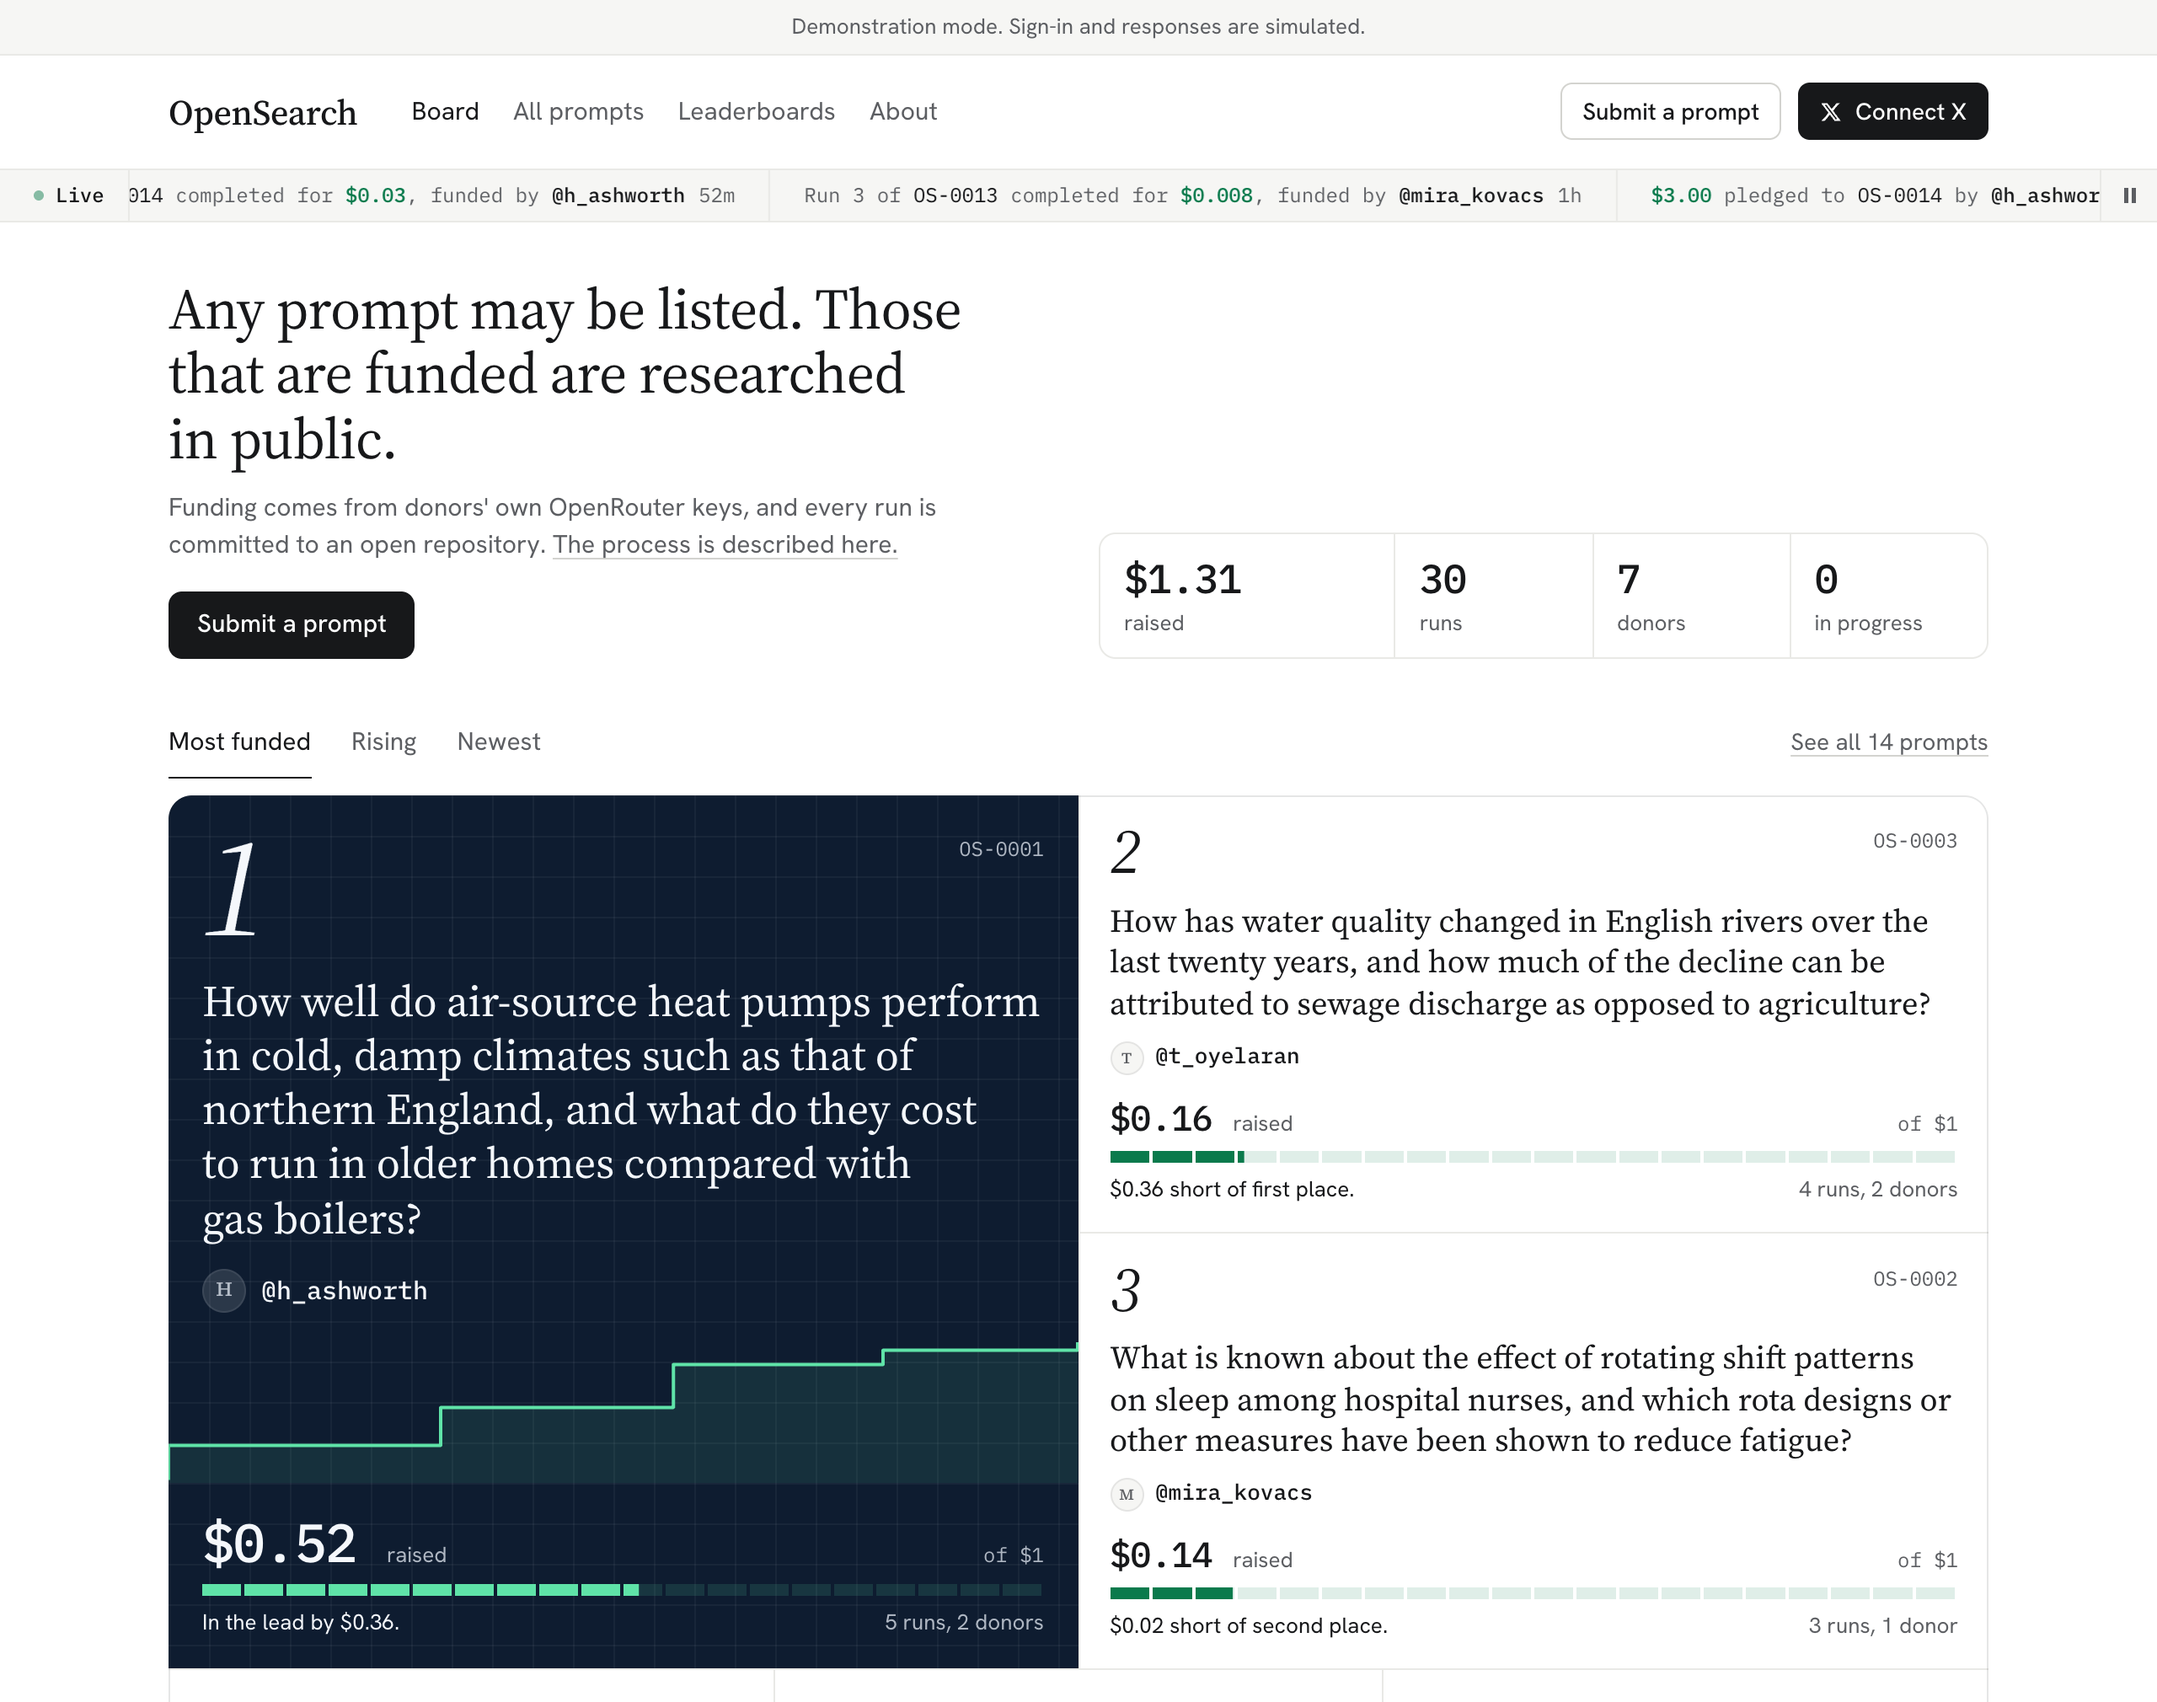
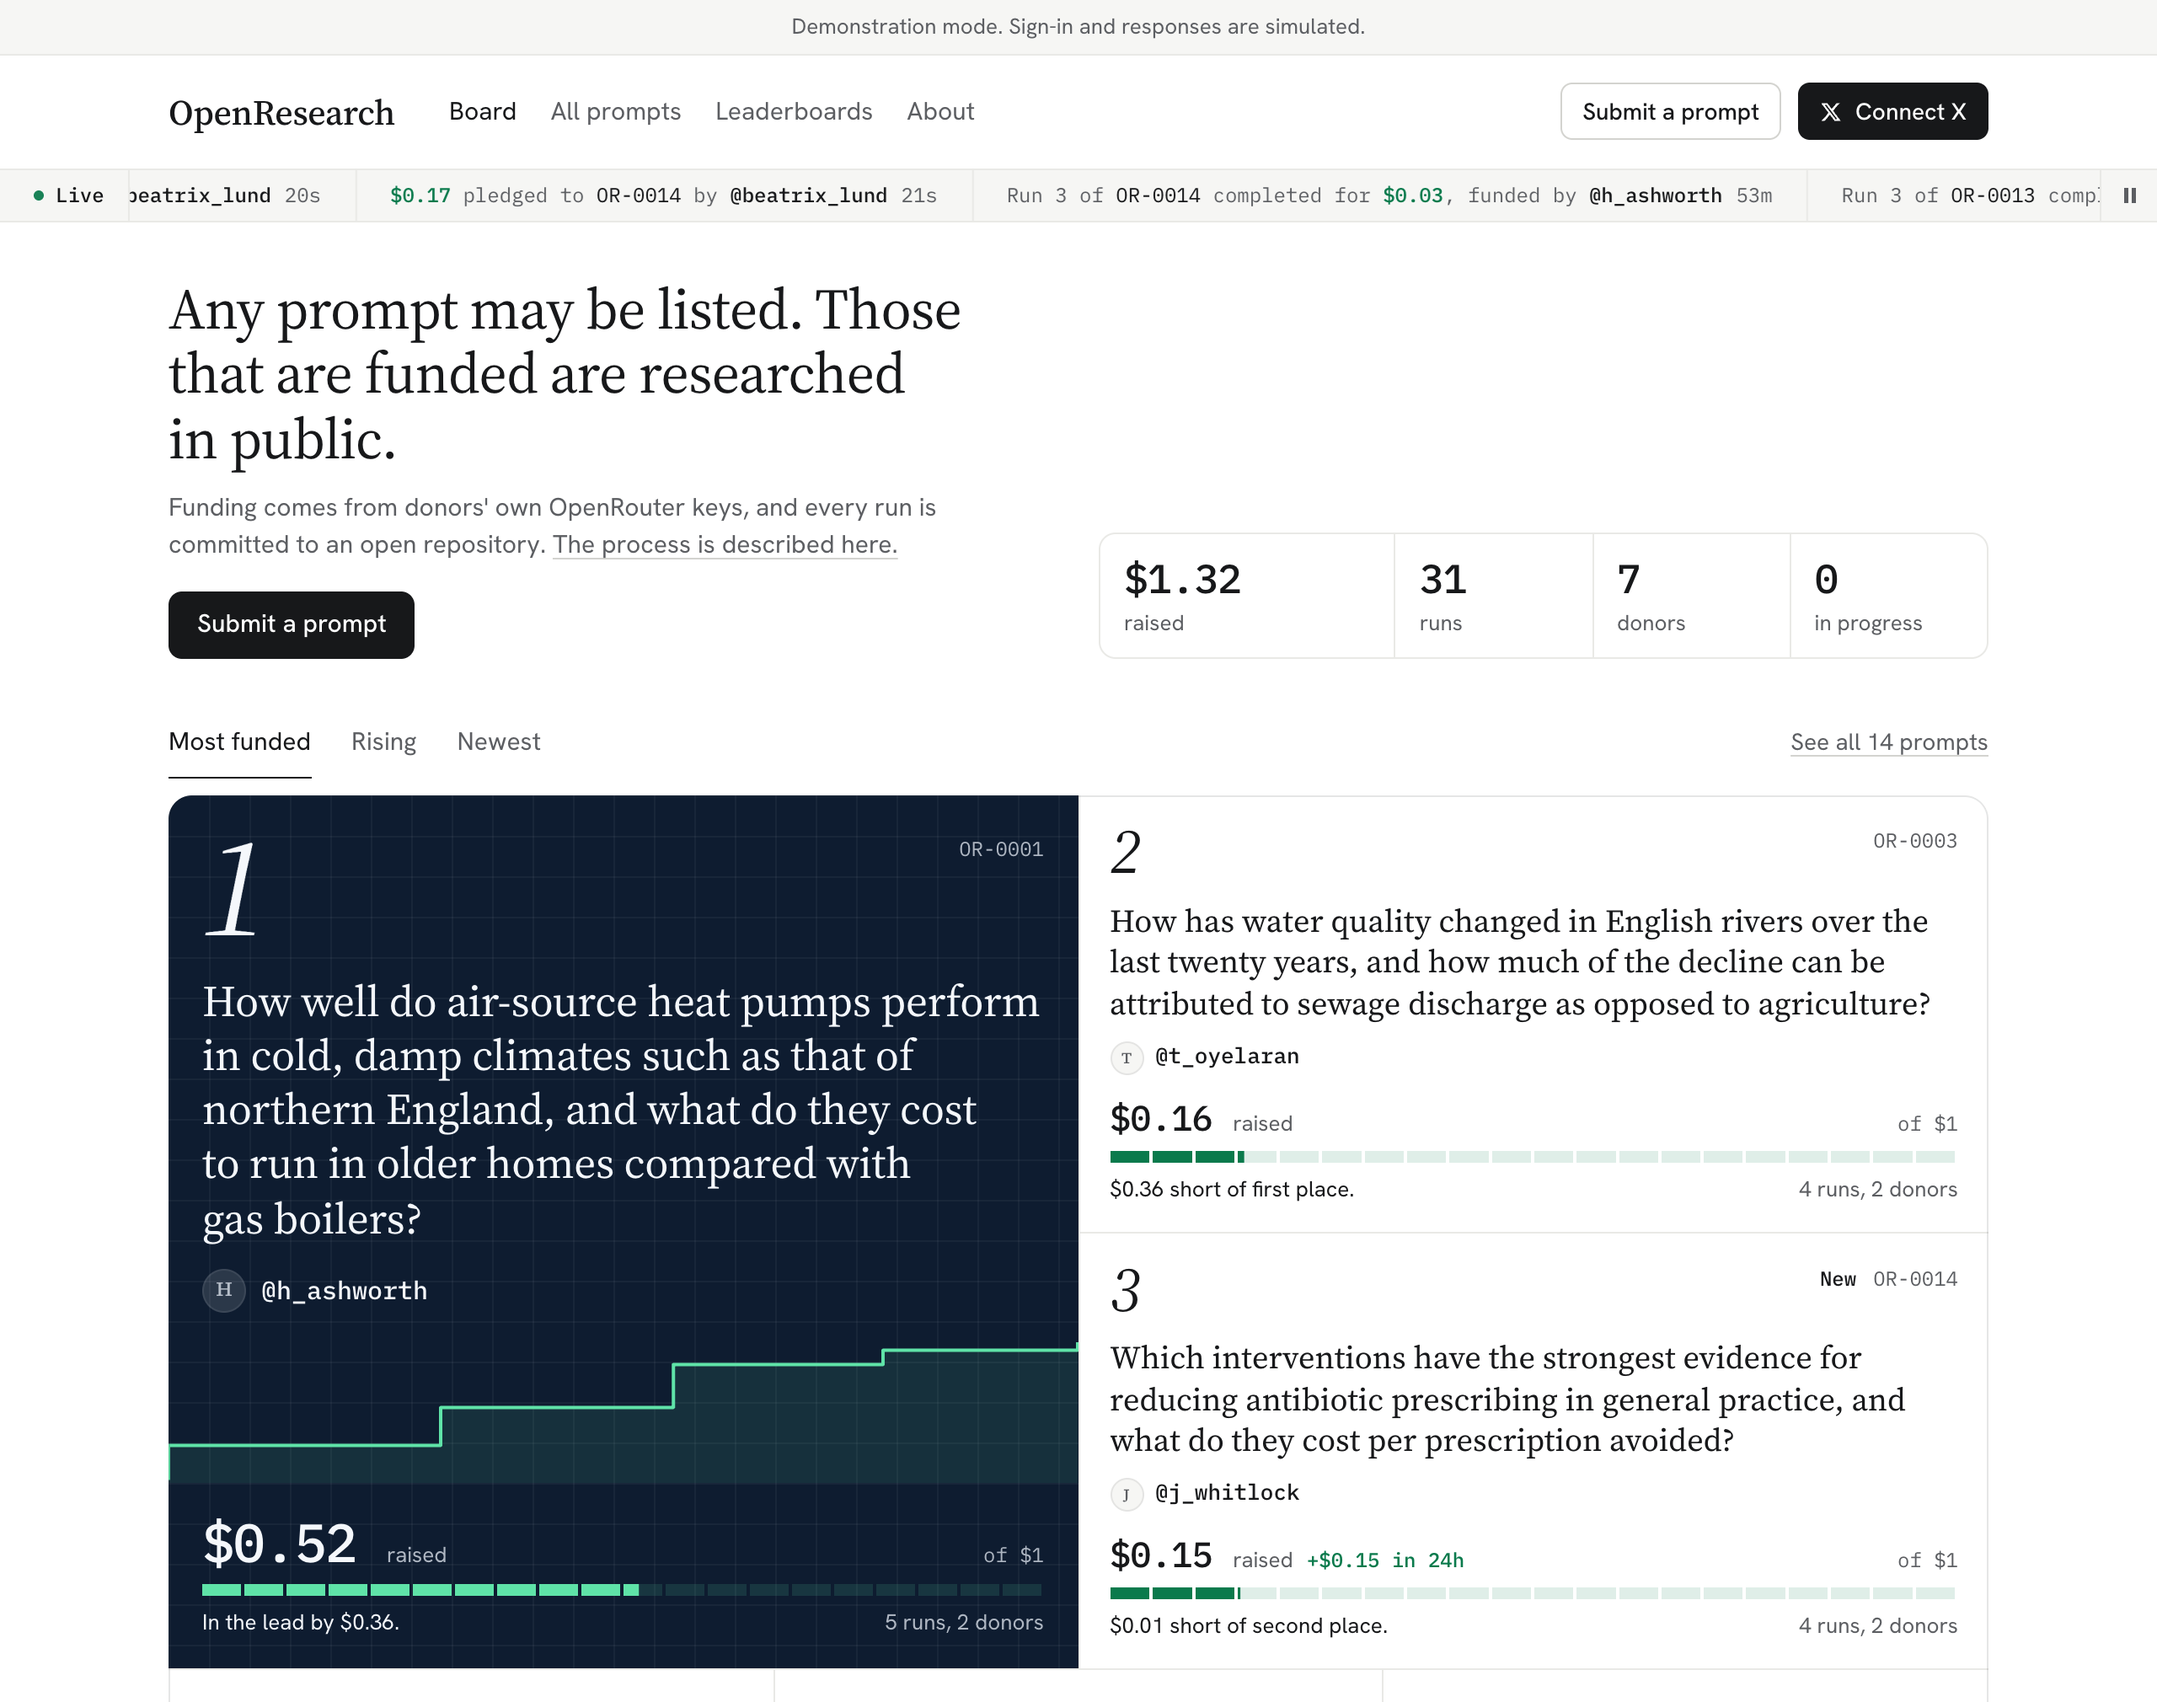
Rename the project from OpenSearch to OpenResearch, with OR- references and openresearch.sqlite

diff --git a/src/routes/+layout.svelte b/src/routes/+layout.svelte
@@ -88,17 +88,17 @@
 </script>
 
 <svelte:head>
-	<title>OpenSearch</title>
+	<title>OpenResearch</title>
 	{#if !path.startsWith('/p/') && !path.startsWith('/u/')}
 		<meta name="description" content="Any prompt may be listed. Those that are funded are researched in public, with every run committed to an open repository." />
 		<meta property="og:type" content="website" />
-		<meta property="og:title" content="OpenSearch" />
+		<meta property="og:title" content="OpenResearch" />
 		<meta property="og:description" content="Any prompt may be listed. Those that are funded are researched in public." />
 		<meta property="og:image" content="{page.url.origin}/card/site.png" />
 		<meta property="og:image:width" content="1200" />
 		<meta property="og:image:height" content="630" />
 		<meta name="twitter:card" content="summary_large_image" />
-		<meta name="twitter:title" content="OpenSearch" />
+		<meta name="twitter:title" content="OpenResearch" />
 		<meta name="twitter:description" content="Any prompt may be listed. Those that are funded are researched in public." />
 		<meta name="twitter:image" content="{page.url.origin}/card/site.png" />
 	{/if}
@@ -111,7 +111,7 @@
 {/if}
 
 <header class="site wrap">
-	<a class="mark serif" href="/">OpenSearch</a>
+	<a class="mark serif" href="/">OpenResearch</a>
 	<nav aria-label="Main">
 		{#each nav as item (item.href)}
 			<a href={item.href} aria-current={item.current(path) ? 'page' : undefined}>{item.label}</a>

diff --git a/src/routes/u/[handle]/+page.svelte b/src/routes/u/[handle]/+page.svelte
@@ -11,14 +11,14 @@
 	let shareOpen = $state(false);
 	const own = $derived(page.data.user?.handle === data.person.handle);
 	const description = $derived(
-		`${money(data.stats.spent)} donated by @${data.person.handle} towards ${plural(data.stats.projects, 'project')} on OpenSearch.`
+		`${money(data.stats.spent)} donated by @${data.person.handle} towards ${plural(data.stats.projects, 'project')} on OpenResearch.`
 	);
 </script>
 
 <svelte:head>
-	<title>@{data.person.handle} · OpenSearch</title>
+	<title>@{data.person.handle} · OpenResearch</title>
 	<meta name="description" content={description} />
-	<meta property="og:title" content="@{data.person.handle} on OpenSearch" />
+	<meta property="og:title" content="@{data.person.handle} on OpenResearch" />
 	<meta property="og:description" content={description} />
 	<meta property="og:image" content="{page.url.origin}/card/donor/{data.person.handle}.png" />
 	<meta name="twitter:card" content="summary_large_image" />
@@ -75,8 +75,8 @@
 	title={`Share @${data.person.handle}`}
 	cardUrl="/card/donor/{data.person.handle}.png"
 	shareUrl="{page.url.origin}/u/{data.person.handle}"
-	postText={`Donations made by @${data.person.handle} towards open research on OpenSearch.`}
-	fileName="opensearch-{data.person.handle}.png"
+	postText={`Donations made by @${data.person.handle} towards research on OpenResearch.`}
+	fileName="openresearch-{data.person.handle}.png"
 />
 
 <style>

diff --git a/src/routes/p/[slug]/+layout.svelte b/src/routes/p/[slug]/+layout.svelte
@@ -52,10 +52,10 @@
 	);
 	const sharePost = $derived(
 		justDonated
-			? `A donation of up to ${money(justDonated.amount)} has been pledged towards this research on OpenSearch.`
+			? `A donation of up to ${money(justDonated.amount)} has been pledged towards this research on OpenResearch.`
 			: project.spent > 0
-				? `${reference(project.id)} has raised ${money(project.spent)} on OpenSearch. It was submitted by @${project.author_handle}.`
-				: `${reference(project.id)} has been listed on OpenSearch by @${project.author_handle}, and it has not yet been funded.`
+				? `${reference(project.id)} has raised ${money(project.spent)} on OpenResearch. It was submitted by @${project.author_handle}.`
+				: `${reference(project.id)} has been listed on OpenResearch by @${project.author_handle}, and it has not yet been funded.`
 	);
 
 	const metaImage = $derived(
@@ -69,7 +69,7 @@
 </script>
 
 <svelte:head>
-	<title>{project.title} · OpenSearch</title>
+	<title>{project.title} · OpenResearch</title>
 	<meta name="description" content={metaDescription} />
 	<meta property="og:type" content="article" />
 	<meta property="og:title" content={project.title} />
@@ -188,7 +188,7 @@
 	cardUrl={shareCard}
 	shareUrl={shareLink}
 	postText={sharePost}
-	fileName="opensearch-{project.slug}.png"
+	fileName="openresearch-{project.slug}.png"
 />
 
 <style>

diff --git a/src/routes/about/+page.svelte b/src/routes/about/+page.svelte
@@ -2,15 +2,15 @@
 	import StageDemo from '#lib/components/StageDemo.svelte';
 </script>
 
-<svelte:head><title>About · OpenSearch</title></svelte:head>
+<svelte:head><title>About · OpenResearch</title></svelte:head>
 
 <article class="page">
-	<h1 class="serif">About OpenSearch</h1>
+	<h1 class="serif">About OpenResearch</h1>
 
 	<StageDemo />
 
 	<div class="prose">
-		<p>OpenSearch is a public board of research prompts. Any prompt of up to 250 words may be listed by anyone with an X account, and a public repository is created for it. Research on that prompt is then paid for by whoever chooses to donate towards it.</p>
+		<p>OpenResearch is a public board of research prompts. Any prompt of up to 250 words may be listed by anyone with an X account, and a public repository is created for it. Research on that prompt is then paid for by whoever chooses to donate towards it.</p>
 
 		<h2>How a donation is made</h2>
 		<p>An OpenRouter API key is added to the account, and an amount and a model are chosen. Credit is drawn directly from the key by OpenRouter as each run is carried out. Any part of a donation left unspent is not charged.</p>

diff --git a/tests/e2e/06-launch.spec.ts b/tests/e2e/06-launch.spec.ts
@@ -30,7 +30,7 @@ test('every prompt can be found on the full list, with the newest first', async 
 	await expect(rows.first()).toContainText('regeneration');
 	await expect(rows.nth(1)).toContainText('sleep patterns');
 	await expect(rows.first()).toContainText(`@${handle}`);
-	await expect(rows.first().locator('.c-ref')).toHaveText(/^OS-\d{4,}$/);
+	await expect(rows.first().locator('.c-ref')).toHaveText(/^OR-\d{4,}$/);
 
 	// A search keeps its place in the address, so that it can be shared or reloaded.
 	await page.getByLabel('Search prompts or handles').fill(marker);
@@ -86,7 +86,7 @@ test('the @handle is shown on the board, the project, and in the header', async 
 	const slug = await submitPrompt(page, 'Which species of tern travels the furthest in a single year?');
 
 	await expect(page.locator('.by').getByRole('link', { name: `@${handle}`, exact: true })).toBeVisible();
-	await expect(page.locator('.by .ref')).toHaveText(/^OS-\d+/);
+	await expect(page.locator('.by .ref')).toHaveText(/^OR-\d+/);
 
 	await page.goto('/?sort=recent');
 	const cell = page.locator('.board .slot').first();

diff --git a/tests/e2e/02-failures.spec.ts b/tests/e2e/02-failures.spec.ts
@@ -319,12 +319,12 @@ test('files outside the repository cannot be reached', async ({ page, request })
 		`/git/${slug}.git/config`,
 		`/git/${slug}.git/hooks/pre-commit`,
 		`/git/${slug}.git/refs/heads/main`,
-		`/git/${slug}.git/..%2F..%2Fopensearch.sqlite`,
+		`/git/${slug}.git/..%2F..%2Fopenresearch.sqlite`,
 		`/git/..%2F..%2F.git/HEAD`,
-		`/git/${slug}.git/objects/..%2F..%2F..%2F..%2Fopensearch.sqlite`,
+		`/git/${slug}.git/objects/..%2F..%2F..%2F..%2Fopenresearch.sqlite`,
 		`/p/${slug}/files/.git/config`,
-		`/p/${slug}/files/..%2F..%2Fopensearch.sqlite`,
-		`/p/${slug}/files/%2e%2e/%2e%2e/opensearch.sqlite`,
+		`/p/${slug}/files/..%2F..%2Fopenresearch.sqlite`,
+		`/p/${slug}/files/%2e%2e/%2e%2e/openresearch.sqlite`,
 		`/p/${slug}/files/nothing.md`,
 		`/p/..%2F..%2F/archive.zip`
 	];

diff --git a/src/routes/submit/+page.server.ts b/src/routes/submit/+page.server.ts
@@ -14,7 +14,7 @@ function readme(title: string, prompt: string, handle: string) {
 		.join('\n');
 	return `# ${title}
 
-This repository holds a research project from OpenSearch. It was submitted by @${handle}.
+This repository holds a research project from OpenResearch. It was submitted by @${handle}.
 
 ${quoted}
 
@@ -53,7 +53,7 @@ export const actions: Actions = {
 				'open-questions.md': '# Open questions\n\nNone are listed at present.\n'
 			},
 			`Prompt submitted by @${user.handle}`,
-			{ name: `@${user.handle}`, email: `${user.x_id}@x.opensearch.invalid` }
+			{ name: `@${user.handle}`, email: `${user.x_id}@x.openresearch.invalid` }
 		);
 		run(
 			`INSERT INTO projects (slug, title, prompt, author_id, created_at) VALUES (?, ?, ?, ?, ?)`,

diff --git a/src/lib/stage/mount.tsx b/src/lib/stage/mount.tsx
@@ -1,15 +1,15 @@
 import { createRoot } from 'react-dom/client'
-import { OpenSearchDemo } from './OpenSearchDemo'
+import { OpenResearchDemo } from './OpenResearchDemo'
 
 type Theme = 'light' | 'dark'
 
 /** The demo is the only React on the site, and it is loaded only where it is shown. */
 export function mount(element: HTMLElement, theme: Theme) {
   const root = createRoot(element)
-  root.render(<OpenSearchDemo theme={theme} />)
+  root.render(<OpenResearchDemo theme={theme} />)
   return {
     setTheme(next: Theme) {
-      root.render(<OpenSearchDemo theme={next} />)
+      root.render(<OpenResearchDemo theme={next} />)
     },
     destroy() {
       root.unmount()

diff --git a/src/routes/leaderboards/+page.svelte b/src/routes/leaderboards/+page.svelte
@@ -48,7 +48,7 @@
 	);
 </script>
 
-<svelte:head><title>Leaderboards · OpenSearch</title></svelte:head>
+<svelte:head><title>Leaderboards · OpenResearch</title></svelte:head>
 
 <div class="head">
 	<h1 class="serif">Leaderboards</h1>
@@ -111,8 +111,8 @@
 		title="Share these donations"
 		cardUrl="/card/donor/{data.me}.png"
 		shareUrl="{page.url.origin}/u/{data.me}"
-		postText="Donations made by @{data.me} towards open research on OpenSearch."
-		fileName="opensearch-{data.me}.png"
+		postText="Donations made by @{data.me} towards research on OpenResearch."
+		fileName="openresearch-{data.me}.png"
 	/>
 {/if}
 

diff --git a/src/lib/server/db.ts b/src/lib/server/db.ts
@@ -131,7 +131,7 @@ const holder = globalThis as unknown as { __osDb?: DatabaseSync };
 
 function open(): DatabaseSync {
 	mkdirSync(config.dataDir, { recursive: true });
-	const db = new DatabaseSync(join(config.dataDir, 'opensearch.sqlite'));
+	const db = new DatabaseSync(join(config.dataDir, 'openresearch.sqlite'));
 	db.exec('PRAGMA journal_mode = WAL; PRAGMA foreign_keys = ON; PRAGMA busy_timeout = 5000;');
 	const version = (db.prepare('PRAGMA user_version').get() as { user_version: number })
 		.user_version;

diff --git a/tests/e2e/03-server.spec.ts b/tests/e2e/03-server.spec.ts
@@ -137,7 +137,7 @@ test('signing in with X works from start to finish, and no token is kept', async
 	expect(session?.httpOnly).toBe(true);
 	expect(session?.sameSite).toBe('Lax');
 	expect(cookies.find((c) => c.name === 'os_oauth')).toBeUndefined();
-	const dump = execFileSync('sh', ['-c', `cat ${DATA}/opensearch.sqlite* | strings`]).toString();
+	const dump = execFileSync('sh', ['-c', `cat ${DATA}/openresearch.sqlite* | strings`]).toString();
 	expect(dump).not.toContain('token-abc');
 });
 

diff --git a/tests/e2e/04-accessibility.spec.ts b/tests/e2e/04-accessibility.spec.ts
@@ -59,7 +59,7 @@ test('the page can be used at 200% text size without losing the controls', async
 	await page.goto('/');
 	await page.addStyleTag({ content: 'html { font-size: 200%; }' });
 	await expect(page.getByRole('link', { name: 'Leaderboards' })).toBeVisible();
-	await expect(page.getByRole('link', { name: 'OpenSearch' })).toBeVisible();
+	await expect(page.getByRole('link', { name: 'OpenResearch' })).toBeVisible();
 });
 
 test('reduced motion is respected', async ({ page }) => {
